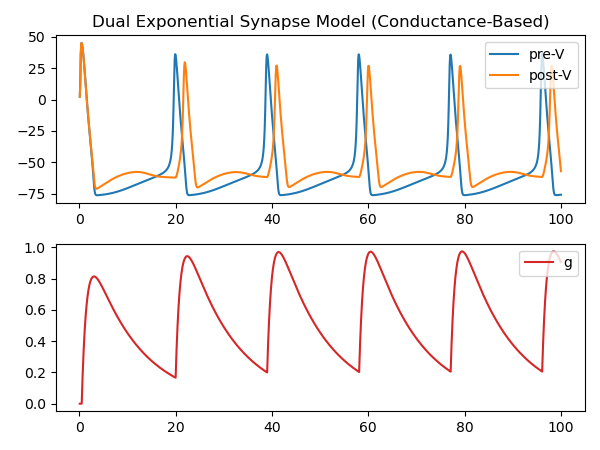
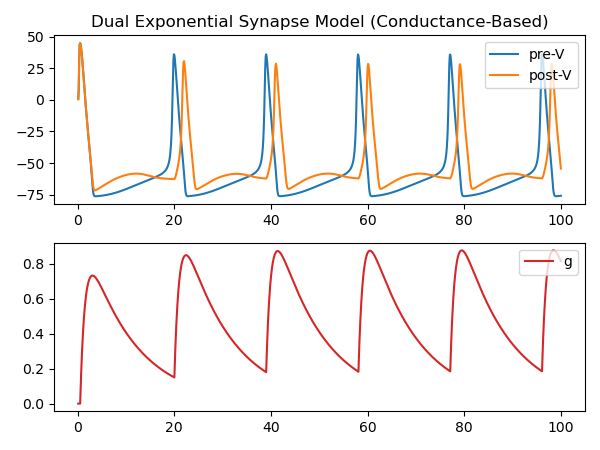
update the dual exp model

diff --git a/synapes_models/dual_exponential.py b/synapes_models/dual_exponential.py
@@ -5,8 +5,8 @@ from run_synapse import run_syn
 
 
 class DualExponential(bp.dyn.TwoEndConn):
-	def __init__(self, pre, post, conn, g_max=1., tau_decay=10.0, tau_rise=1., delay_step=2, E=0.,
-	             syn_type='CUBA', method='exp_auto', **kwargs):
+	def __init__(self, pre, post, conn, g_max=1., tau_decay=8., tau_rise=2., delay_step=2,
+	             E=0., syn_type='CUBA', method='exp_auto', **kwargs):
 		super(DualExponential, self).__init__(pre=pre, post=post, conn=conn, **kwargs)
 		self.check_pre_attrs('spike')
 		self.check_post_attrs('input', 'V')
@@ -15,6 +15,7 @@ class DualExponential(bp.dyn.TwoEndConn):
 		self.tau_decay = tau_decay
 		self.tau_rise = tau_rise
 		self.g_max = g_max
+		self.h_max = (tau_decay - tau_rise) / (tau_decay * tau_rise)
 		self.delay_step = delay_step
 		self.E = E
 
@@ -31,7 +32,7 @@ class DualExponential(bp.dyn.TwoEndConn):
 
 		# 定义微分方程及其对应的积分函数
 		self.int_h = bp.odeint(method=method, f=lambda h, t: -h / self.tau_rise)
-		self.int_g = bp.odeint(method=method, f=lambda g, t, h: -g / self.tau_decay + h)
+		self.int_g = bp.odeint(method=method, f=lambda g, t, h: -g / self.tau_decay + h * self.g_max)
 
 	def update(self, _t, _dt):
 		# 将突触前神经元传来的信号延迟delay_step的时间步长
@@ -39,7 +40,7 @@ class DualExponential(bp.dyn.TwoEndConn):
 		self.delay.update(self.pre.spike)
 
 		# 根据连接模式计算各个突触后神经元收到的信号强度
-		post_sp = bm.pre2post_event_sum(delayed_pre_spike, self.pre2post, self.post.num, self.g_max)
+		post_sp = bm.pre2post_event_sum(delayed_pre_spike, self.pre2post, self.post.num, self.h_max)
 		# 突触的电导g的更新包括常规积分和突触前脉冲带来的跃变
 		self.h.value = self.int_h(self.h, _t) + post_sp
 		self.g.value = self.int_g(self.g, _t, self.h)
